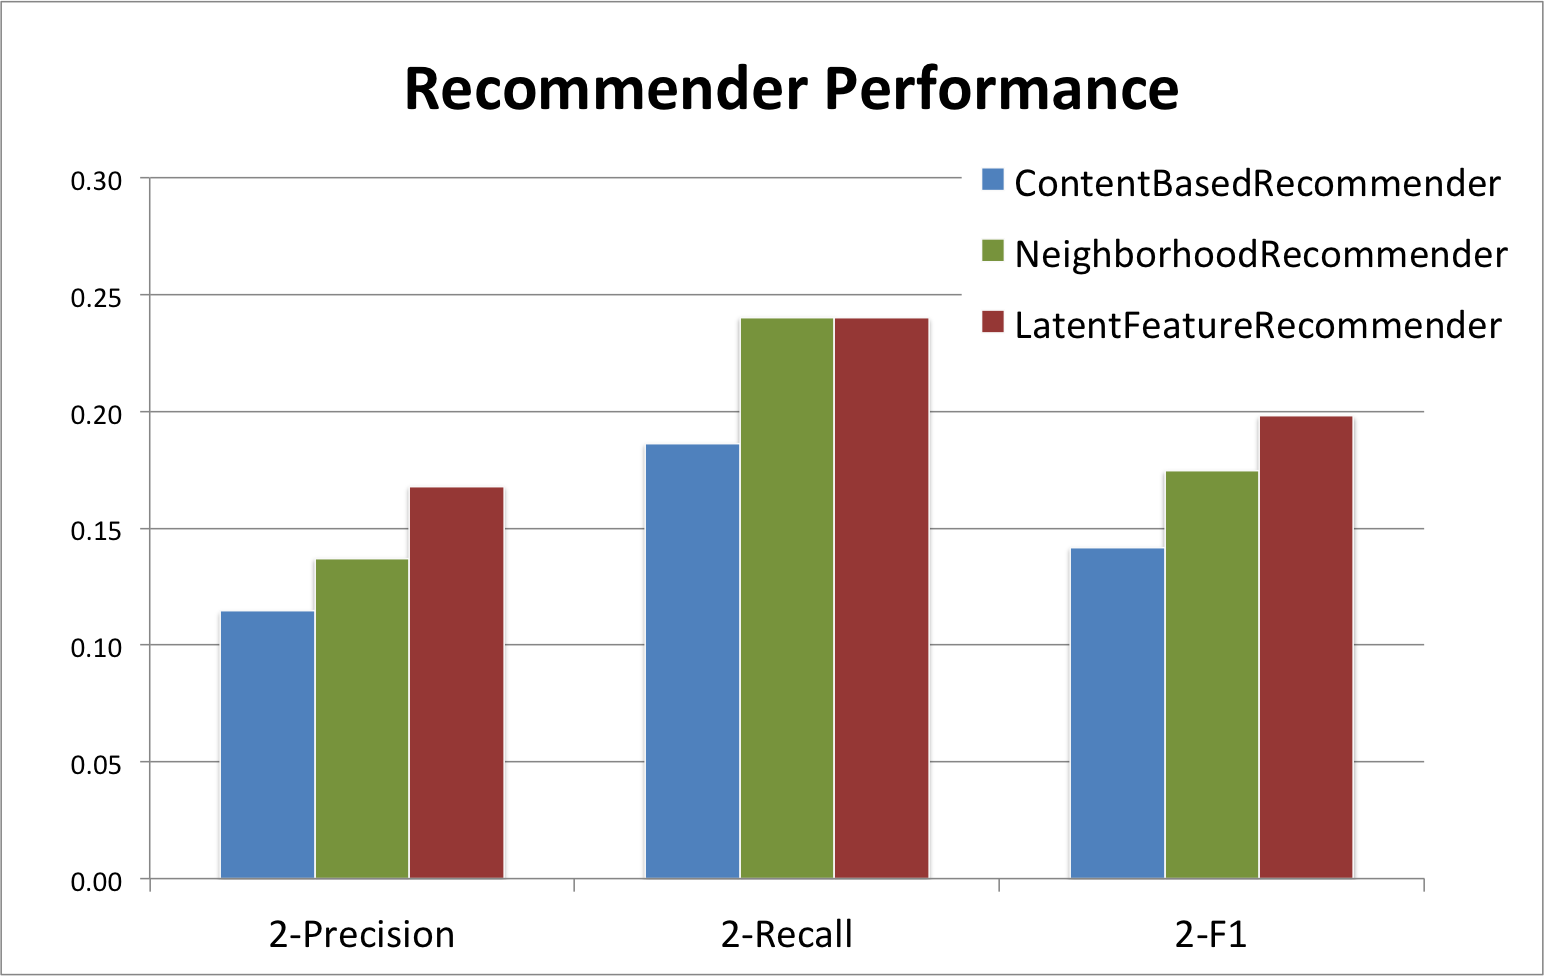
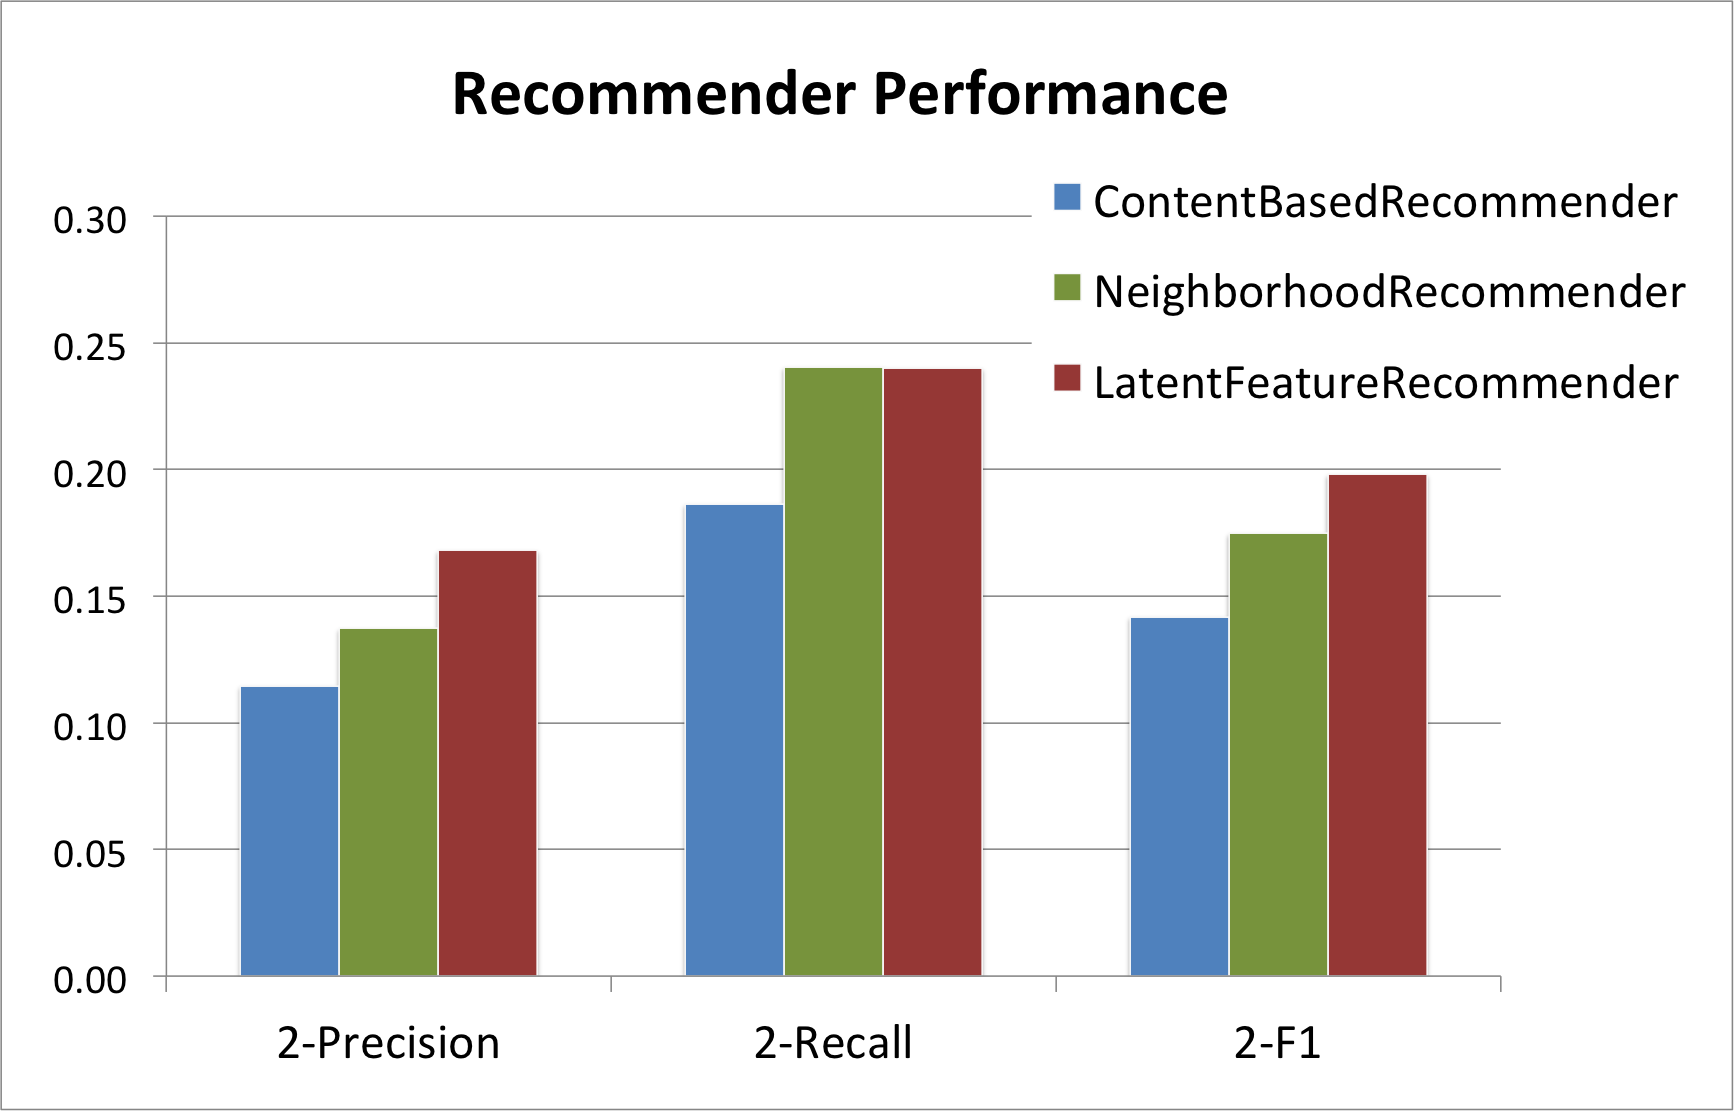
BIGGER

diff --git a/paper2/paper.tex b/paper2/paper.tex
@@ -798,7 +798,7 @@ further illustrated in the following figure.}
 \end{table}
 \begin{figure}[!htbp]
     \centering
-    \includegraphics[width=0.65\textwidth]{RecommenderPerformance2.png}
+    \includegraphics[width=0.75\textwidth]{RecommenderPerformance2.png}
 	\caption{The performance of the three main recommenders in terms of
     2-metrics across all categories. We emphasize the 2-F1 Score as our most
     important single metric of comparison. We see that the $LatentFeatureRecommender$
